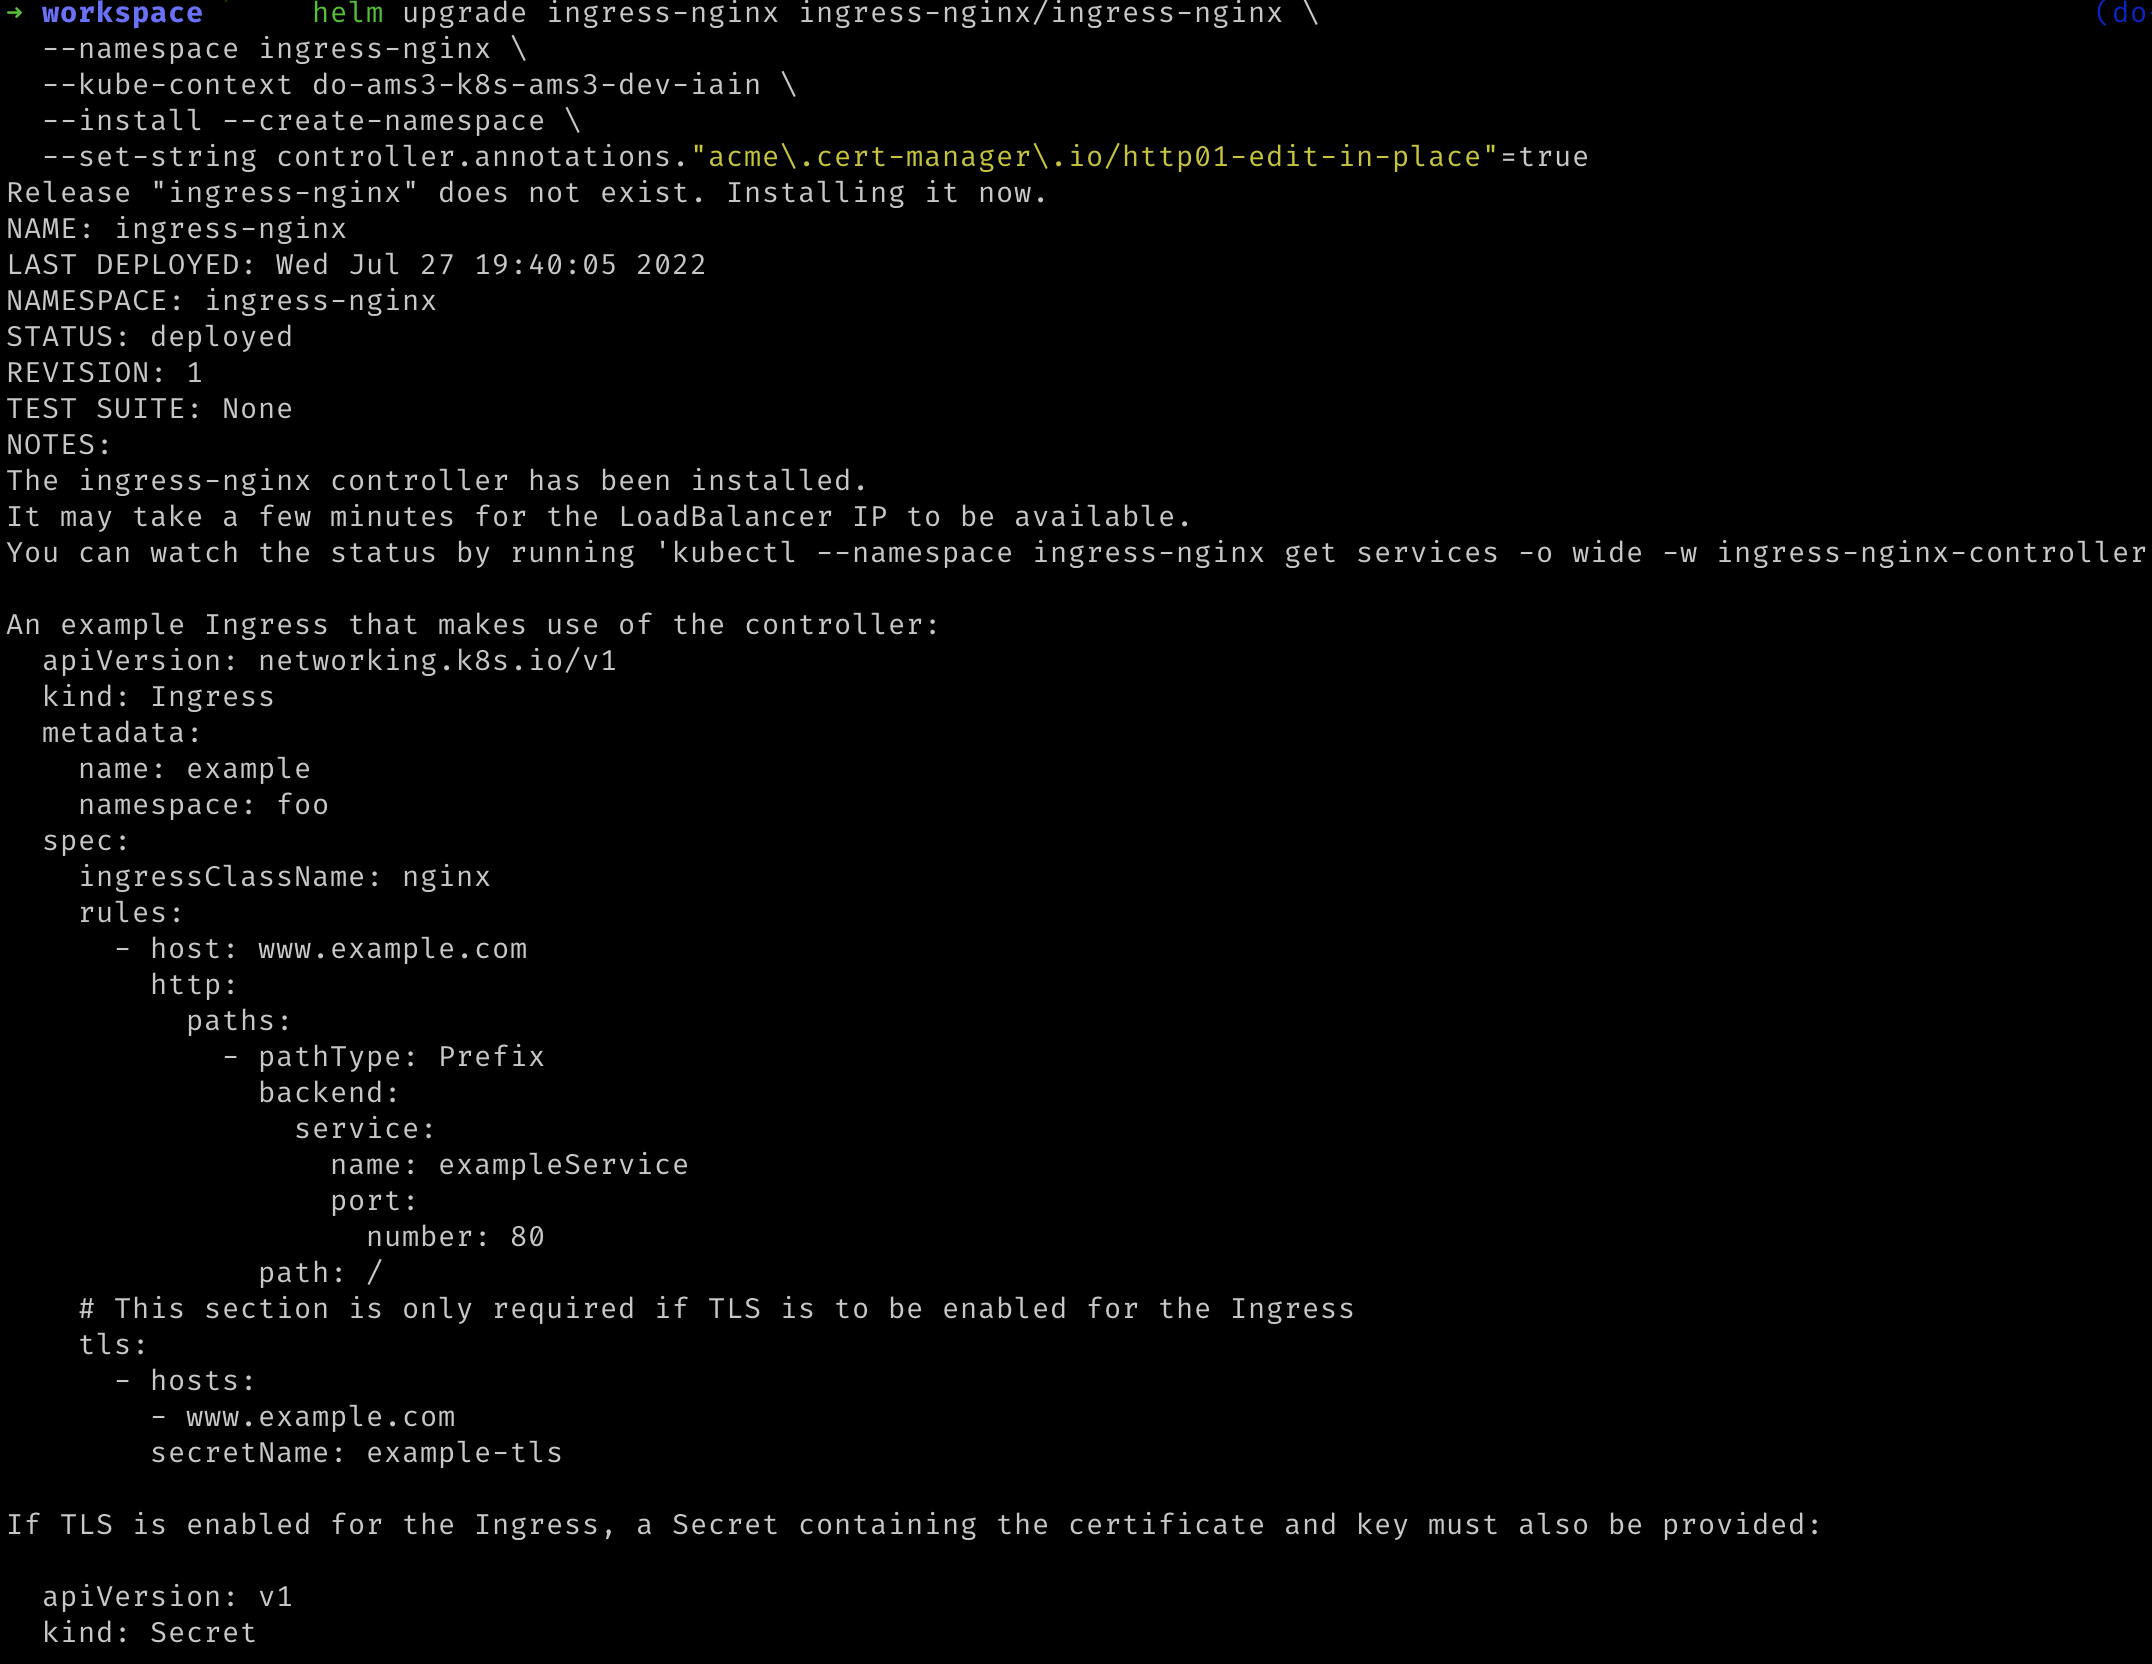
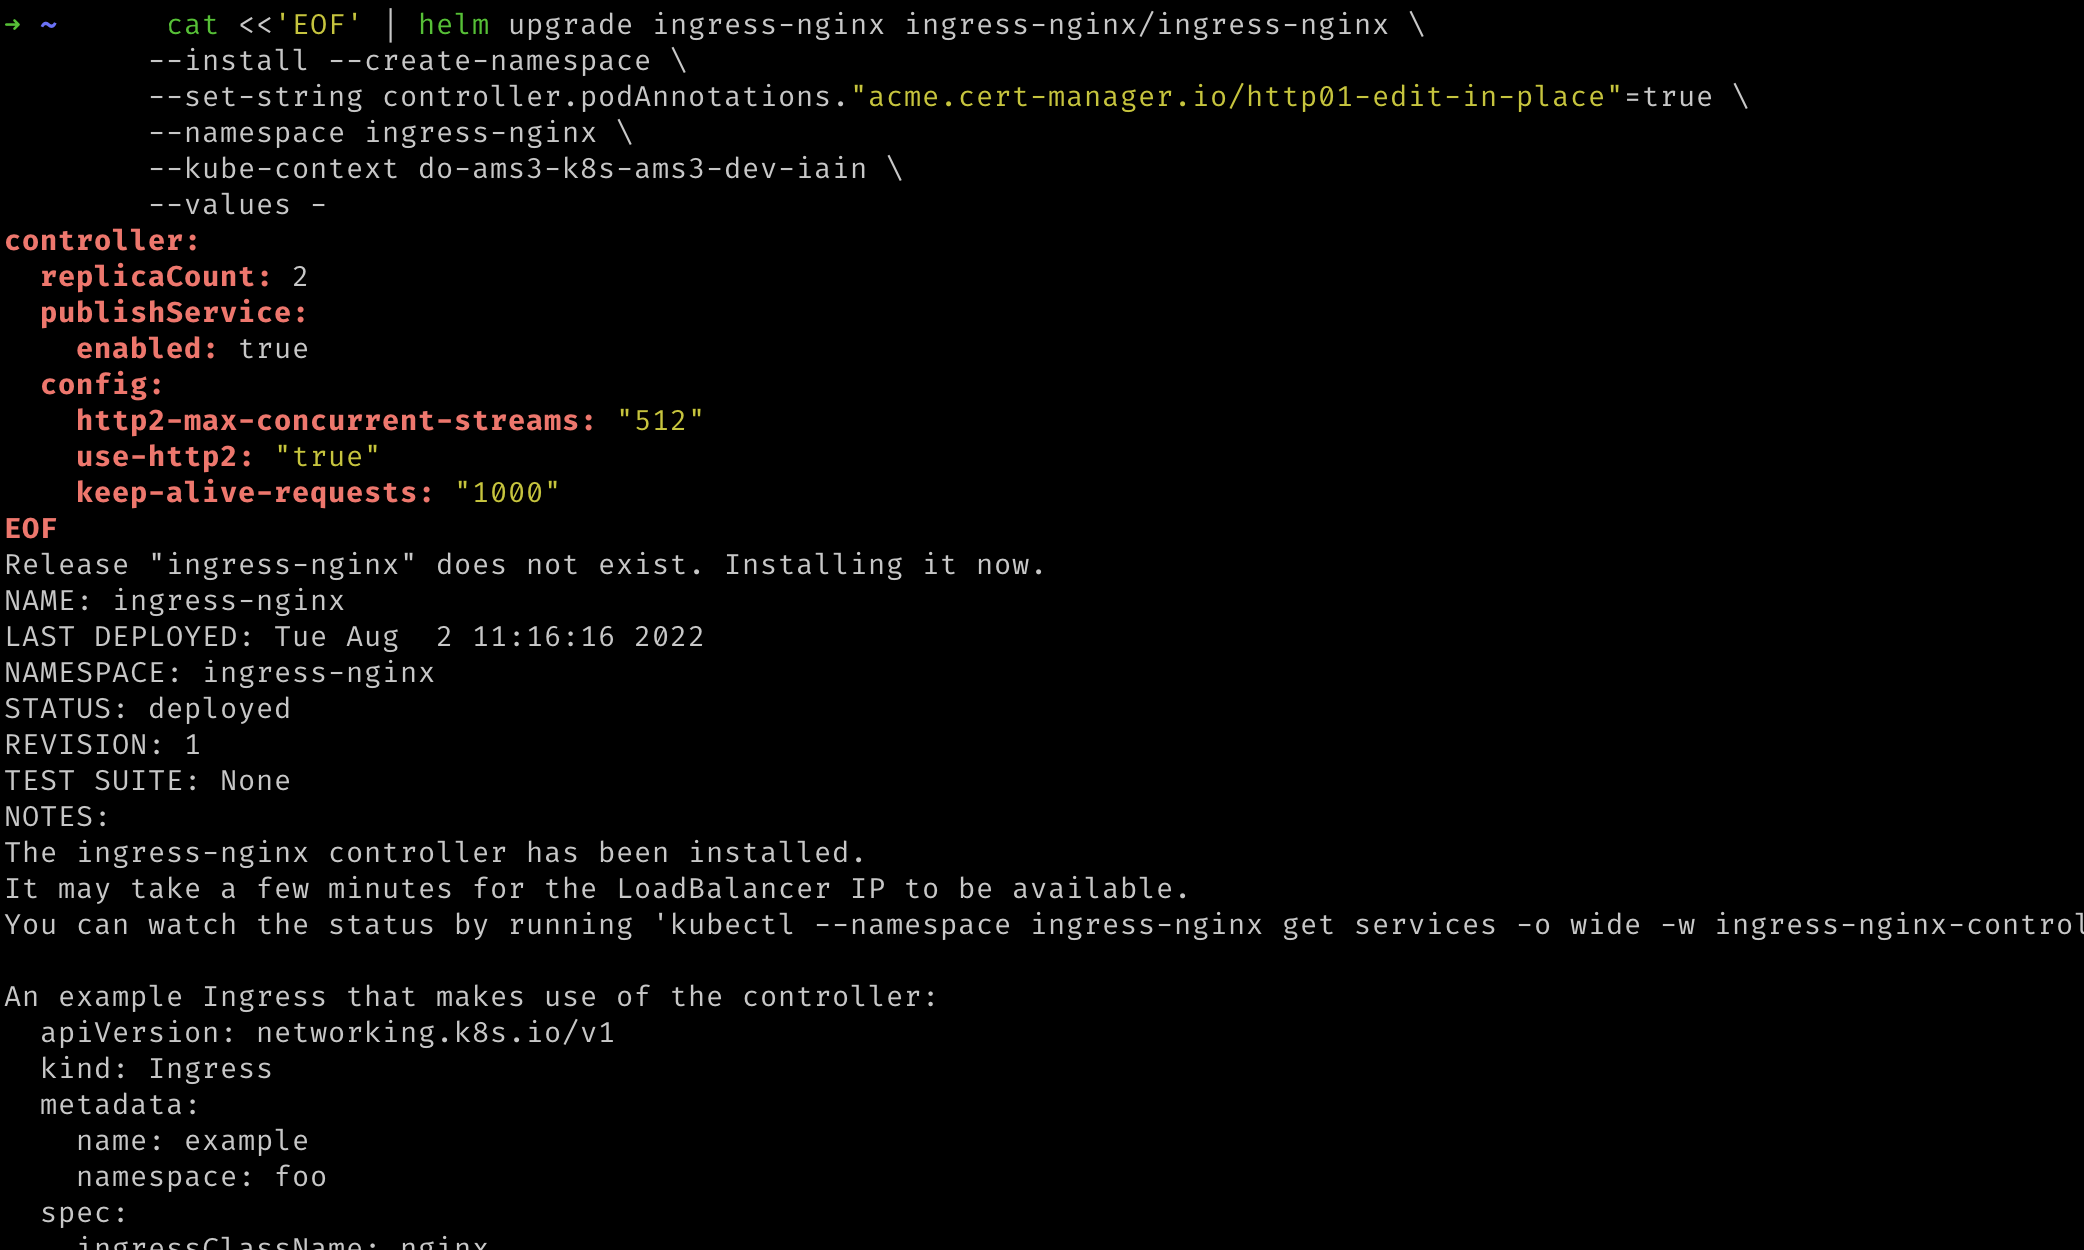
Update screenshot for ingress controller deployment

diff --git a/dev/server-setup-k8s.md b/dev/server-setup-k8s.md
@@ -281,7 +281,7 @@ cat <<'EOF' | helm upgrade ingress-nginx ingress-nginx/ingress-nginx \
         --install --create-namespace \
         --set-string controller.podAnnotations."acme.cert-manager.io/http01-edit-in-place"=true \
         --namespace ingress-nginx \
-        --kube-context do-ams3-k8s-speckletest-2 \
+        --kube-context YOUR_CLUSTER_CONTEXT_NAME \
         --values - 
 controller:
   replicaCount: 2
